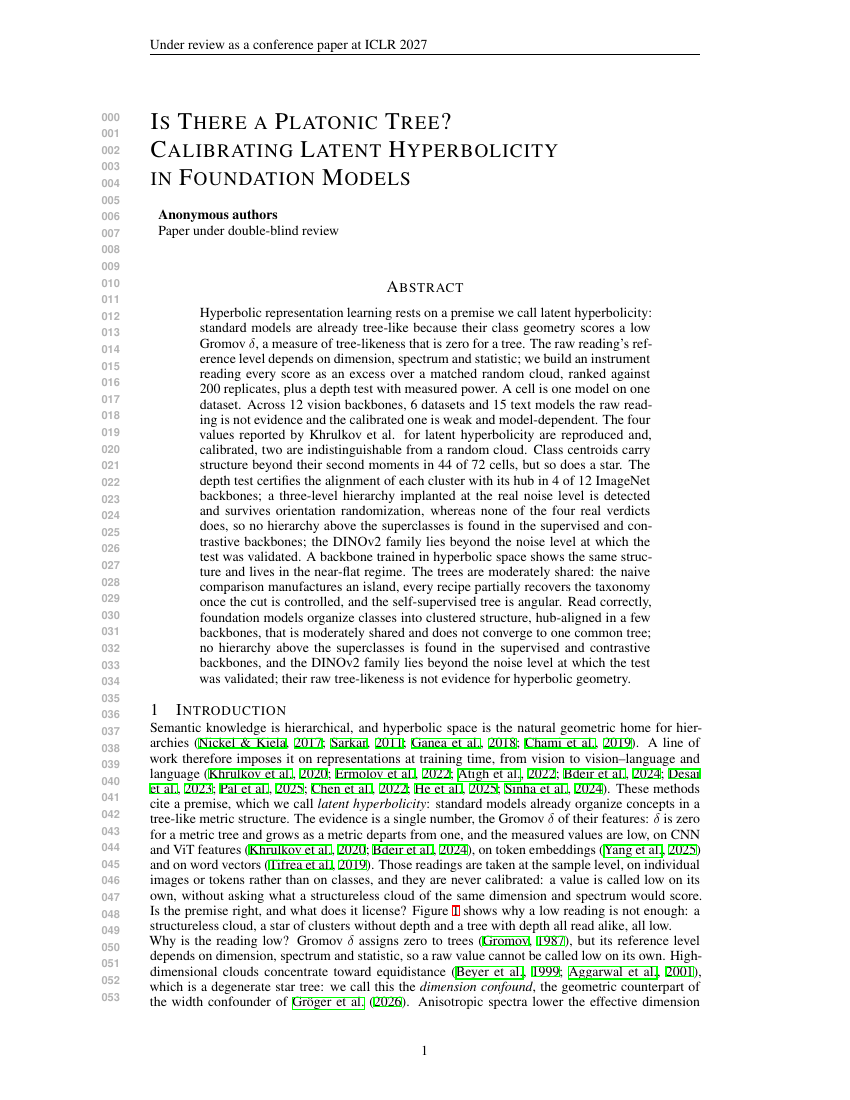
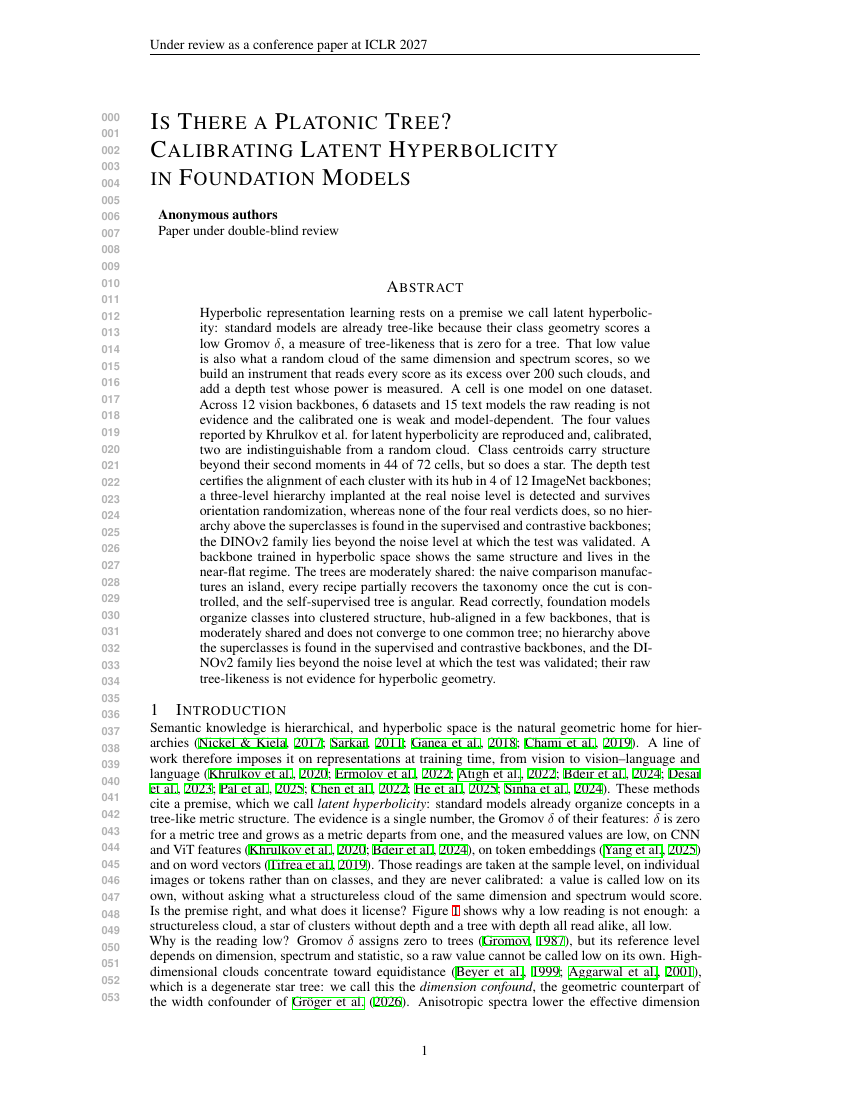
Abstract, second sentence (author): "That low value is also what a random cloud of the same dimension and spectrum scores, so we build an instrument that reads every score as its excess over 200 such clouds, and add a depth test whose power is measured."; 324 words, page 9 kept
Claude-Session: https://claude.ai/code/session_01X3uQtPxuL37VCSgmwvB8QH

Changed region(s): [[0.2141, 0.2782, 0.7647, 0.6182]]

diff --git a/ICLR2027/iclr2027/main_iclr2027_final.tex b/ICLR2027/iclr2027/main_iclr2027_final.tex
@@ -61,7 +61,7 @@
 \raggedbottom   % final pass: [t] figures and [H] tables leave short pages; ragged bottoms instead of underfull vertical boxes
 
 \begin{abstract}
-Hyperbolic representation learning rests on a premise we call latent hyperbolicity: standard models are already tree-like because their class geometry scores a low Gromov $\delta$, a measure of tree-likeness that is zero for a tree. The raw reading's reference level depends on dimension, spectrum and statistic; we build an instrument reading every score as an excess over a matched random cloud, ranked against 200 replicates, plus a depth test with measured power. A cell is one model on one dataset. Across 12 vision backbones, 6 datasets and 15 text models the raw reading is not evidence and the calibrated one is weak and model-dependent. The four values reported by Khrulkov et al. for latent hyperbolicity are reproduced and, calibrated, two are indistinguishable from a random cloud. Class centroids carry structure beyond their second moments in 44 of 72 cells, but so does a star. The depth test certifies the alignment of each cluster with its hub in 4 of 12 ImageNet backbones; a three-level hierarchy implanted at the real noise level is detected and survives orientation randomization, whereas none of the four real verdicts does, so no hierarchy above the superclasses is found in the supervised and contrastive backbones; the DINOv2 family lies beyond the noise level at which the test was validated. A backbone trained in hyperbolic space shows the same structure and lives in the near-flat regime. The trees are moderately shared: the naive comparison manufactures an island, every recipe partially recovers the taxonomy once the cut is controlled, and the self-supervised tree is angular. Read correctly, foundation models organize classes into clustered structure, hub-aligned in a few backbones, that is moderately shared and does not converge to one common tree; no hierarchy above the superclasses is found in the supervised and contrastive backbones, and the DINOv2 family lies beyond the noise level at which the test was validated; their raw tree-likeness is not evidence for hyperbolic geometry.
+Hyperbolic representation learning rests on a premise we call latent hyperbolicity: standard models are already tree-like because their class geometry scores a low Gromov $\delta$, a measure of tree-likeness that is zero for a tree. That low value is also what a random cloud of the same dimension and spectrum scores, so we build an instrument that reads every score as its excess over 200 such clouds, and add a depth test whose power is measured. A cell is one model on one dataset. Across 12 vision backbones, 6 datasets and 15 text models the raw reading is not evidence and the calibrated one is weak and model-dependent. The four values reported by Khrulkov et al. for latent hyperbolicity are reproduced and, calibrated, two are indistinguishable from a random cloud. Class centroids carry structure beyond their second moments in 44 of 72 cells, but so does a star. The depth test certifies the alignment of each cluster with its hub in 4 of 12 ImageNet backbones; a three-level hierarchy implanted at the real noise level is detected and survives orientation randomization, whereas none of the four real verdicts does, so no hierarchy above the superclasses is found in the supervised and contrastive backbones; the DINOv2 family lies beyond the noise level at which the test was validated. A backbone trained in hyperbolic space shows the same structure and lives in the near-flat regime. The trees are moderately shared: the naive comparison manufactures an island, every recipe partially recovers the taxonomy once the cut is controlled, and the self-supervised tree is angular. Read correctly, foundation models organize classes into clustered structure, hub-aligned in a few backbones, that is moderately shared and does not converge to one common tree; no hierarchy above the superclasses is found in the supervised and contrastive backbones, and the DINOv2 family lies beyond the noise level at which the test was validated; their raw tree-likeness is not evidence for hyperbolic geometry.
 \end{abstract}
 
 \section{Introduction}

diff --git a/ICLR2027/iclr2027/main_iclr2027_rebuttal.tex b/ICLR2027/iclr2027/main_iclr2027_rebuttal.tex
@@ -62,7 +62,7 @@
 \raggedbottom   % final pass: [t] figures and [H] tables leave short pages; ragged bottoms instead of underfull vertical boxes
 
 \begin{abstract}
-Hyperbolic representation learning rests on a premise we call latent hyperbolicity: standard models are already tree-like because their class geometry scores a low Gromov $\delta$, a measure of tree-likeness that is zero for a tree. The raw reading's reference level depends on dimension, spectrum and statistic; we build an instrument reading every score as an excess over a matched random cloud, ranked against 200 replicates, plus a depth test with measured power. A cell is one model on one dataset. Across 12 vision backbones, 6 datasets and 15 text models the raw reading is not evidence and the calibrated one is weak and model-dependent. The four values reported by Khrulkov et al. for latent hyperbolicity are reproduced and, calibrated, two are indistinguishable from a random cloud. Class centroids carry structure beyond their second moments in 44 of 72 cells, but so does a star. The depth test certifies the alignment of each cluster with its hub in 4 of 12 ImageNet backbones; a three-level hierarchy implanted at the real noise level is detected and survives orientation randomization, whereas none of the four real verdicts does, so no hierarchy above the superclasses is found in the supervised and contrastive backbones; the DINOv2 family lies beyond the noise level at which the test was validated. A backbone trained in hyperbolic space shows the same structure and lives in the near-flat regime. The trees are moderately shared: the naive comparison manufactures an island, every recipe partially recovers the taxonomy once the cut is controlled, and the self-supervised tree is angular. Read correctly, foundation models organize classes into clustered structure, hub-aligned in a few backbones, that is moderately shared and does not converge to one common tree; no hierarchy above the superclasses is found in the supervised and contrastive backbones, and the DINOv2 family lies beyond the noise level at which the test was validated; their raw tree-likeness is not evidence for hyperbolic geometry.
+Hyperbolic representation learning rests on a premise we call latent hyperbolicity: standard models are already tree-like because their class geometry scores a low Gromov $\delta$, a measure of tree-likeness that is zero for a tree. That low value is also what a random cloud of the same dimension and spectrum scores, so we build an instrument that reads every score as its excess over 200 such clouds, and add a depth test whose power is measured. A cell is one model on one dataset. Across 12 vision backbones, 6 datasets and 15 text models the raw reading is not evidence and the calibrated one is weak and model-dependent. The four values reported by Khrulkov et al. for latent hyperbolicity are reproduced and, calibrated, two are indistinguishable from a random cloud. Class centroids carry structure beyond their second moments in 44 of 72 cells, but so does a star. The depth test certifies the alignment of each cluster with its hub in 4 of 12 ImageNet backbones; a three-level hierarchy implanted at the real noise level is detected and survives orientation randomization, whereas none of the four real verdicts does, so no hierarchy above the superclasses is found in the supervised and contrastive backbones; the DINOv2 family lies beyond the noise level at which the test was validated. A backbone trained in hyperbolic space shows the same structure and lives in the near-flat regime. The trees are moderately shared: the naive comparison manufactures an island, every recipe partially recovers the taxonomy once the cut is controlled, and the self-supervised tree is angular. Read correctly, foundation models organize classes into clustered structure, hub-aligned in a few backbones, that is moderately shared and does not converge to one common tree; no hierarchy above the superclasses is found in the supervised and contrastive backbones, and the DINOv2 family lies beyond the noise level at which the test was validated; their raw tree-likeness is not evidence for hyperbolic geometry.
 \end{abstract}
 
 \section{Introduction}

diff --git a/rebuttal/scripts/phaseE_submission.py b/rebuttal/scripts/phaseE_submission.py
@@ -86,7 +86,7 @@ def edit(s):
 # sixth review (2026-09-20): the abstract is rewritten by order to 250 words or fewer, depth left open, cell defined in its own sentence;
 # the text below replaces the edited verbatim abstract and is recorded in final_verbatim_edits.json ("abstract_sixth_review")
 ABSTRACT_TEXT = ("Hyperbolic representation learning rests on a premise we call latent hyperbolicity: standard models are already tree-like because their class geometry scores a low Gromov $\\delta$, a measure of tree-likeness that is zero for a tree. "
-    "The raw reading's reference level depends on dimension, spectrum and statistic; we build an instrument reading every score as an excess over a matched random cloud, ranked against 200 replicates, plus a depth test with measured power. "
+    "That low value is also what a random cloud of the same dimension and spectrum scores, so we build an instrument that reads every score as its excess over 200 such clouds, and add a depth test whose power is measured. "
     "A cell is one model on one dataset. "
     "Across 12 vision backbones, 6 datasets and 15 text models the raw reading is not evidence and the calibrated one is weak and model-dependent. The four values reported by Khrulkov et al. for latent hyperbolicity are reproduced and, calibrated, two are indistinguishable from a random cloud. "
     "Class centroids carry structure beyond their second moments in {{N_GEN}} of 72 cells, but so does a star. The depth test certifies the alignment of each cluster with its hub in {{N_IN}} of 12 ImageNet backbones; a three-level hierarchy implanted at the real noise level is detected and survives orientation randomization, whereas none of the four real verdicts does, so no hierarchy above the superclasses is found in the supervised and contrastive backbones; the DINOv2 family lies beyond the noise level at which the test was validated. "

diff --git a/ICLR2027/CHANGELOG_final.md b/ICLR2027/CHANGELOG_final.md
@@ -1607,3 +1607,6 @@ un CSV; `rebuttal/results/phaseE_fills.json` guarda los valores); el apéndice, 
   standard models are already tree-like because their class geometry scores a low Gromov δ, a measure of tree-likeness that is zero
   for a tree." (vuelve "we call" y se añade la definición de δ). 320 palabras; el check del tope de 250 sigue en FAIL a la espera del
   autor. `OPENREVIEW_abstract.txt` regenerado.
+- **Resumen, segunda frase (autor, 2026-09-21)**: "That low value is also what a random cloud of the same dimension and spectrum
+  scores, so we build an instrument that reads every score as its excess over 200 such clouds, and add a depth test whose power is
+  measured." (sustituye a la frase del nivel de referencia). Recuento en la nota de cierre; el tope de 250 sigue pendiente.
